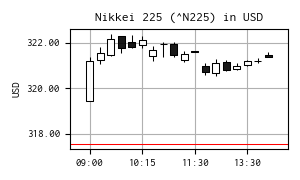
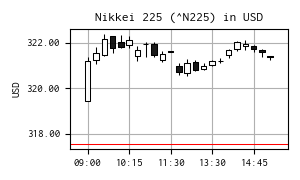
update

diff --git a/modules/algo_trade.py b/modules/algo_trade.py
@@ -22,25 +22,37 @@ class AlgoTrade:
         # ポジション（建玉）
         idx_position = self.list_obs.index("建玉")
         position = PositionType(int(obs[idx_position]))
+        # ロスカット
+        idx_losscut = self.list_obs.index("ロス")
+        flag_losscut = int(obs[idx_losscut])
         # ---------------------------------------------------------------------
         # MAΔ の符号反転シグナル 1 の処理
         if signal_mad_1 == SignalSign.ZERO:
             action = ActionType.HOLD.value
-        elif signal_mad_1 == SignalSign.POSITIVE and action_masks[ActionType.BUY.value]:
+        elif signal_mad_1 == SignalSign.POSITIVE and action_masks[ActionType.BUY.value] == 1:
             action = ActionType.BUY.value
-        elif signal_mad_1 == SignalSign.NEGATIVE and action_masks[ActionType.SELL.value]:
+        elif signal_mad_1 == SignalSign.NEGATIVE and action_masks[ActionType.SELL.value] == 1:
             action = ActionType.SELL.value
         else:
             action = ActionType.HOLD.value
         # ---------------------------------------------------------------------
         # MAΔ の符号反転シグナル 2（ディレイ）の処理（反対売買用）
-        if signal_mad_2 == SignalSign.POSITIVE and action_masks[ActionType.BUY.value]:
+        if signal_mad_2 == SignalSign.POSITIVE and action_masks[ActionType.BUY.value] == 1:
             action = ActionType.BUY.value
-        elif signal_mad_2 == SignalSign.NEGATIVE and action_masks[ActionType.SELL.value]:
+        elif signal_mad_2 == SignalSign.NEGATIVE and action_masks[ActionType.SELL.value] == 1:
             action = ActionType.SELL.value
         # ---------------------------------------------------------------------
         # 低ボラ時のエントリ強制禁止処理
         if flag_vola_low and position == PositionType.NONE:
             action = ActionType.HOLD.value
+        # ---------------------------------------------------------------------
+        # ロスカット
+        if flag_losscut == 1:
+            if action_masks[ActionType.BUY.value] == 1:
+                action = ActionType.BUY.value
+            elif action_masks[ActionType.SELL.value] == 1:
+                action = ActionType.SELL.value
+            else:
+                pass
 
         return action, {}

diff --git a/widgets/charts.py b/widgets/charts.py
@@ -264,6 +264,7 @@ class ObsChart(ScrollArea):
         self.removeAxes()
         list_height_ratio = list()
         list_col = list(df.columns)
+        # MA2 は MA1 と重ねてプロットするので除外です。
         if "MA2" in list_col:
             idx_ma_2 = list_col.index("MA2")
             list_col.pop(idx_ma_2)
@@ -271,7 +272,7 @@ class ObsChart(ScrollArea):
         for colname in list_col:
             if colname in ["Price", "MA1"]:
                 list_height_ratio.append(2)
-            elif colname in ["低ボラ", "建玉", "損益M"]:
+            elif colname in ["低ボラ", "建玉", "損益M", "ロス"]:
                 list_height_ratio.append(0.5)
             else:
                 list_height_ratio.append(1)
@@ -290,12 +291,12 @@ class ObsChart(ScrollArea):
             if colname == "Price":
                 ax[i].plot(df[colname], linewidth=0.5)
                 ax[i].yaxis.set_major_formatter(ticker.StrMethodFormatter("{x:,.0f}"))
-                ax[i].set_ylabel(colname)
+                ax[i].set_ylabel("株価")
             elif colname == "MA1":
                 ax[i].plot(df[colname], linewidth=0.5, color="magenta")
                 ax[i].plot(df["MA2"], linewidth=0.5, color="darkgreen")
                 ax[i].yaxis.set_major_formatter(ticker.StrMethodFormatter("{x:,.0f}"))
-                ax[i].set_ylabel("移動平均")
+                ax[i].set_ylabel("株価（移動平均）")
             elif colname == "低ボラ":
                 x = df.index
                 y = df[colname]
@@ -317,8 +318,8 @@ class ObsChart(ScrollArea):
                 ax[i].plot(df[colname], linewidth=0.5)
                 ax[i].set_ylabel(colname)
 
+        # チャートのタイトル
         ax[0].set_title(title)
-        # plt.tight_layout()
 
         # 再描画
         self.canvas.setFixedHeight(len(list_height_ratio) * 100)

diff --git a/modules/observatory.py b/modules/observatory.py
@@ -78,6 +78,14 @@ class ObservationManager:
         # 9. 含損益M（含み損益最大）
         profit_unrealized_max = self.provider.profit_max
         list_feature.append(profit_unrealized_max)
+        # ---------------------------------------------------------------------
+        # 10. ロスカット・プラグ
+        if profit_unrealized < self.provider.LOSSCUT:
+            flag_losscut = 1
+        else:
+            flag_losscut = 0
+        list_feature.append(flag_losscut)
+
         # =====================================================================
         # 配列にして観測値を返す
         return np.array(list_feature, dtype=np.float32)
@@ -94,6 +102,7 @@ class ObservationManager:
             "建玉",
             "含損益",
             "損益M",
+            "ロス",
         ]
 
     def getObsReset(self) -> np.ndarray:

diff --git a/modules/prophet.py b/modules/prophet.py
@@ -171,6 +171,8 @@ class Prophet(QMainWindow):
         :param dict_result:
         :return:
         """
+        # 行の表示数の上限
+        pd.set_option('display.max_rows', 100)
         print("\n【取引明細】")
         df_transaction: pd.DataFrame = dict_result["transaction"]
         print(df_transaction)
@@ -304,8 +306,9 @@ class Prophet(QMainWindow):
         self.requestPostProcs.disconnect()
         self.sendTradeData.disconnect()
 
-        self.thread.quit()
-        self.thread.wait()
+        if self.thread is not None:
+            self.thread.quit()
+            self.thread.wait()
 
         if self.worker is not None:
             self.worker.deleteLater()

diff --git a/modules/feature_provider.py b/modules/feature_provider.py
@@ -22,6 +22,8 @@ class FeatureProvider:
         self.N_TRADE_MAX = 100.0
         # 株価キューの最大値
         self.N_DEQUE_PRICE = self.PERIOD_MAD_2
+        # ロスカット
+        self.LOSSCUT = -5
         # _/_/_/_/_/_/_/_/_/_/_/_/_/_/_/_/_/_/_/_/_/_/_/_/_/_/_/_/_/_/_/_/_/_/_
         # 変数
         # _/_/_/_/_/_/_/_/_/_/_/_/_/_/_/_/_/_/_/_/_/_/_/_/_/_/_/_/_/_/_/_/_/_/_
